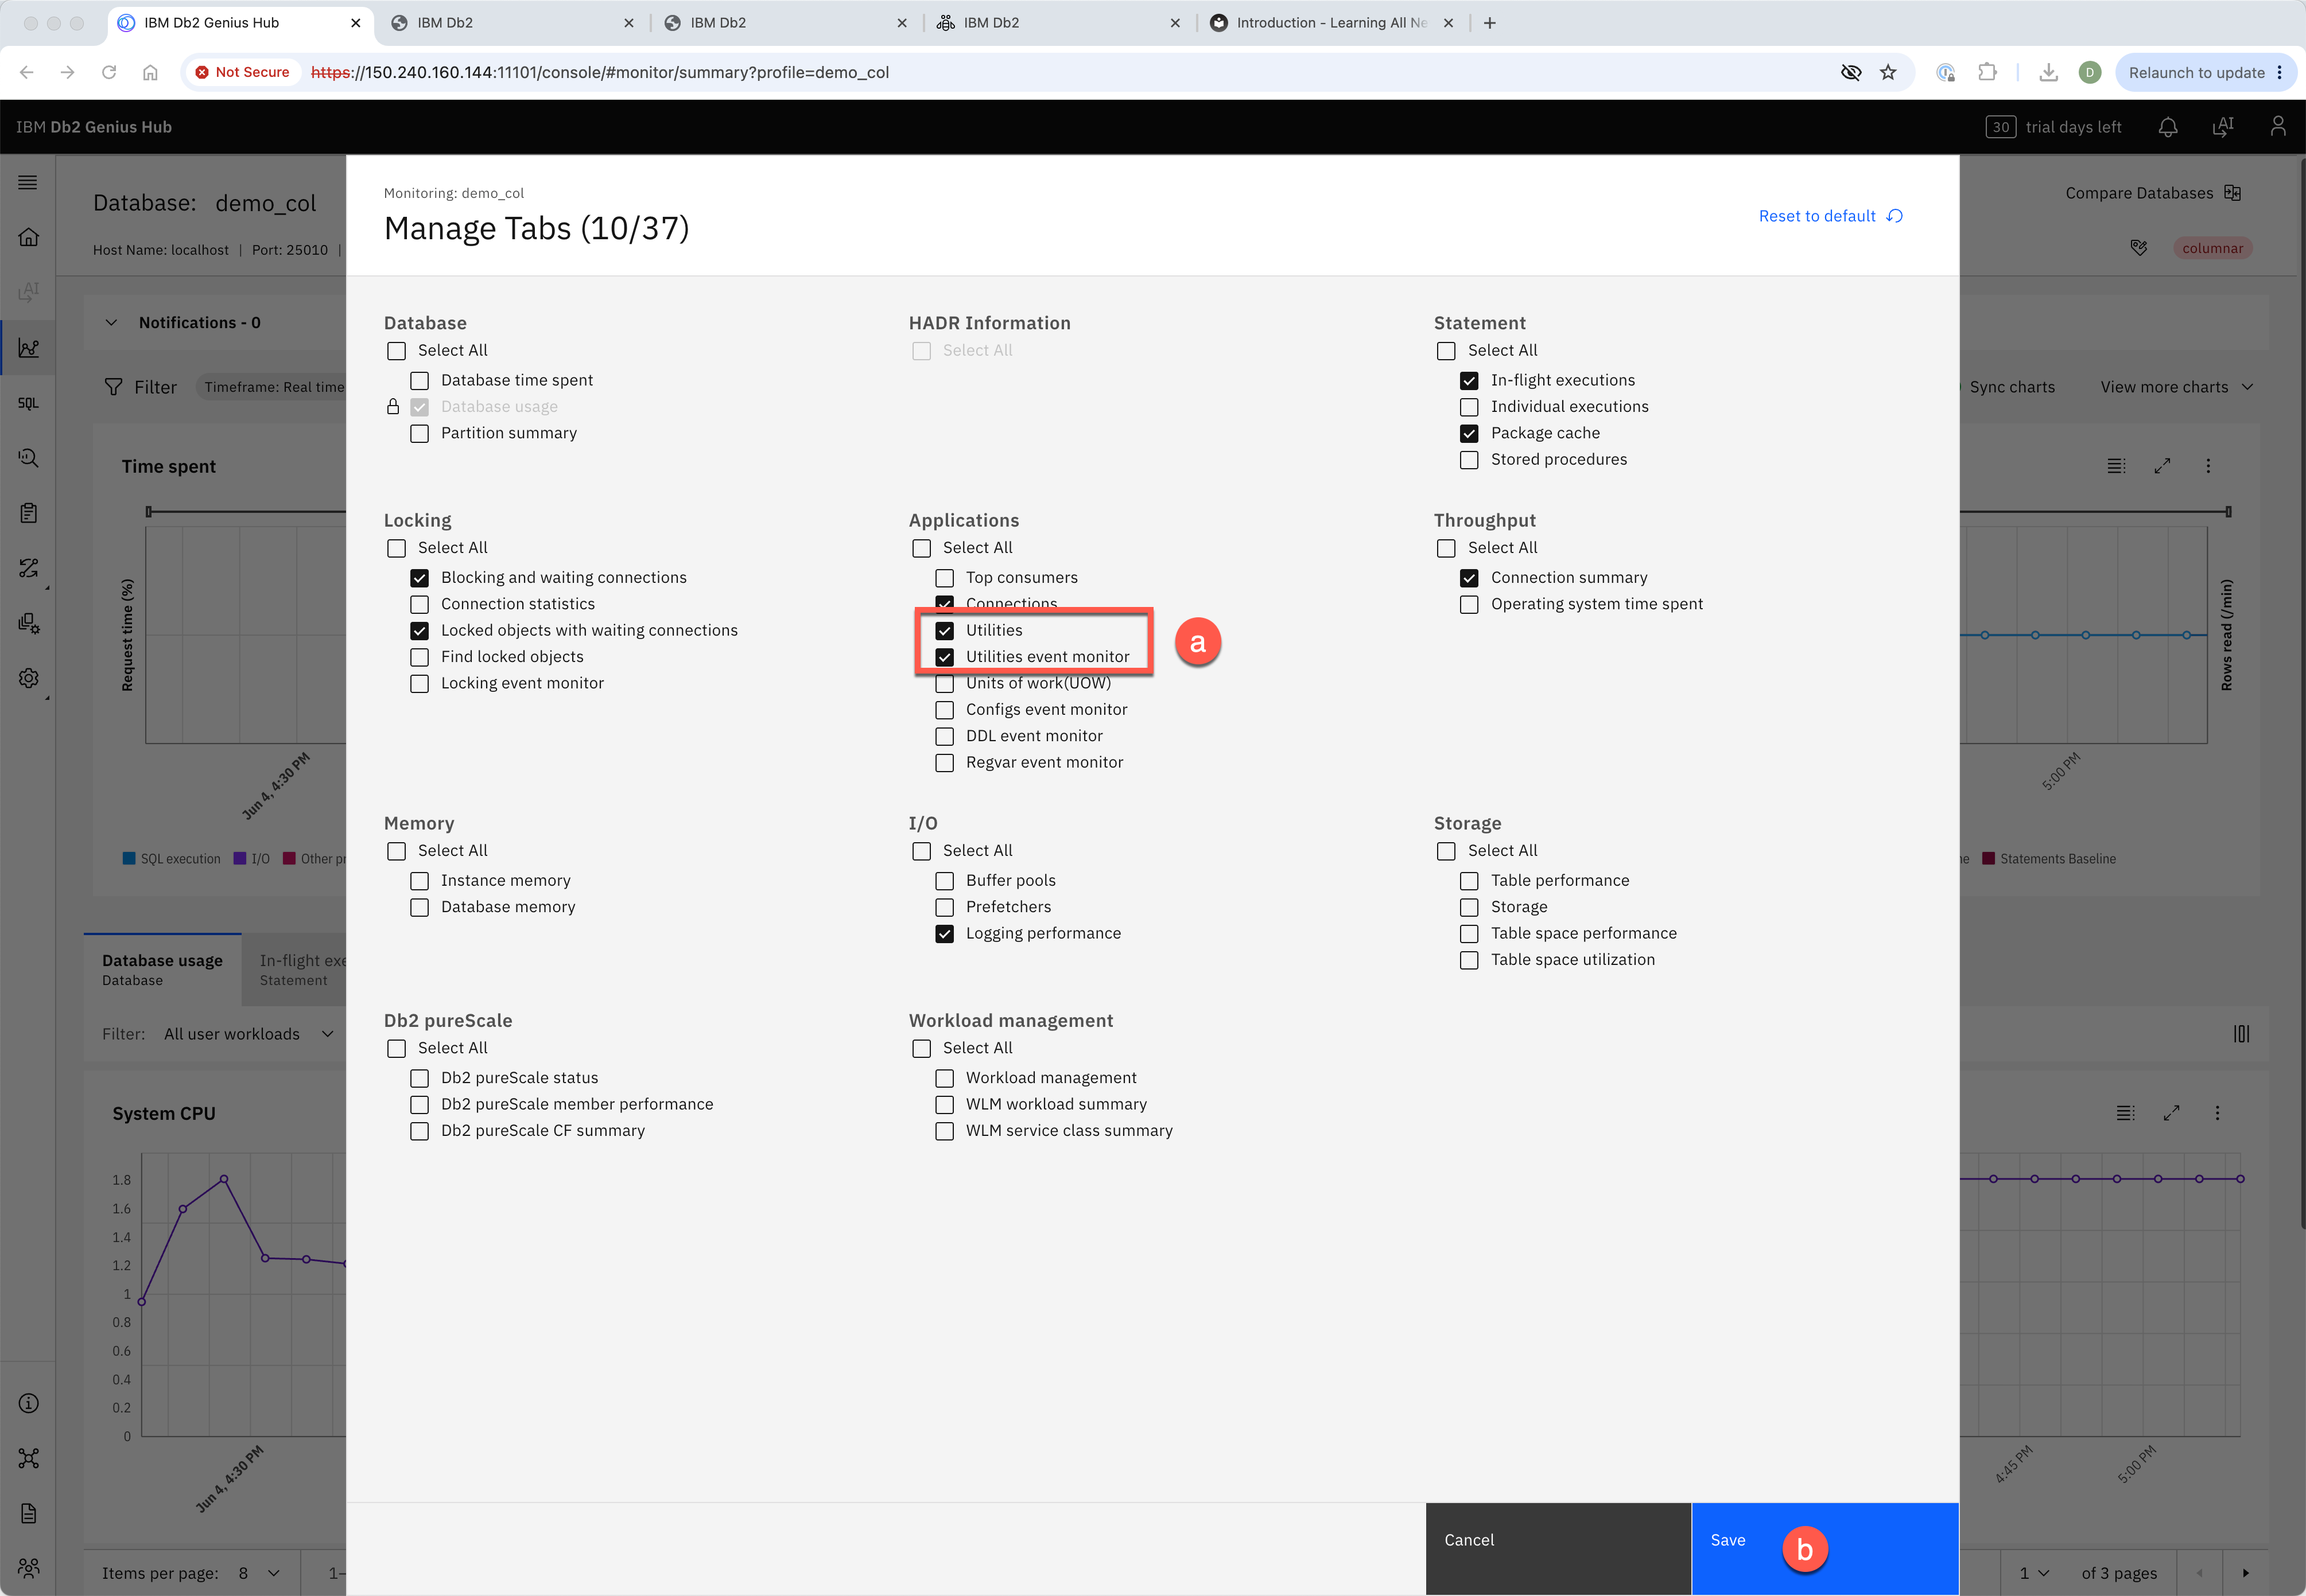
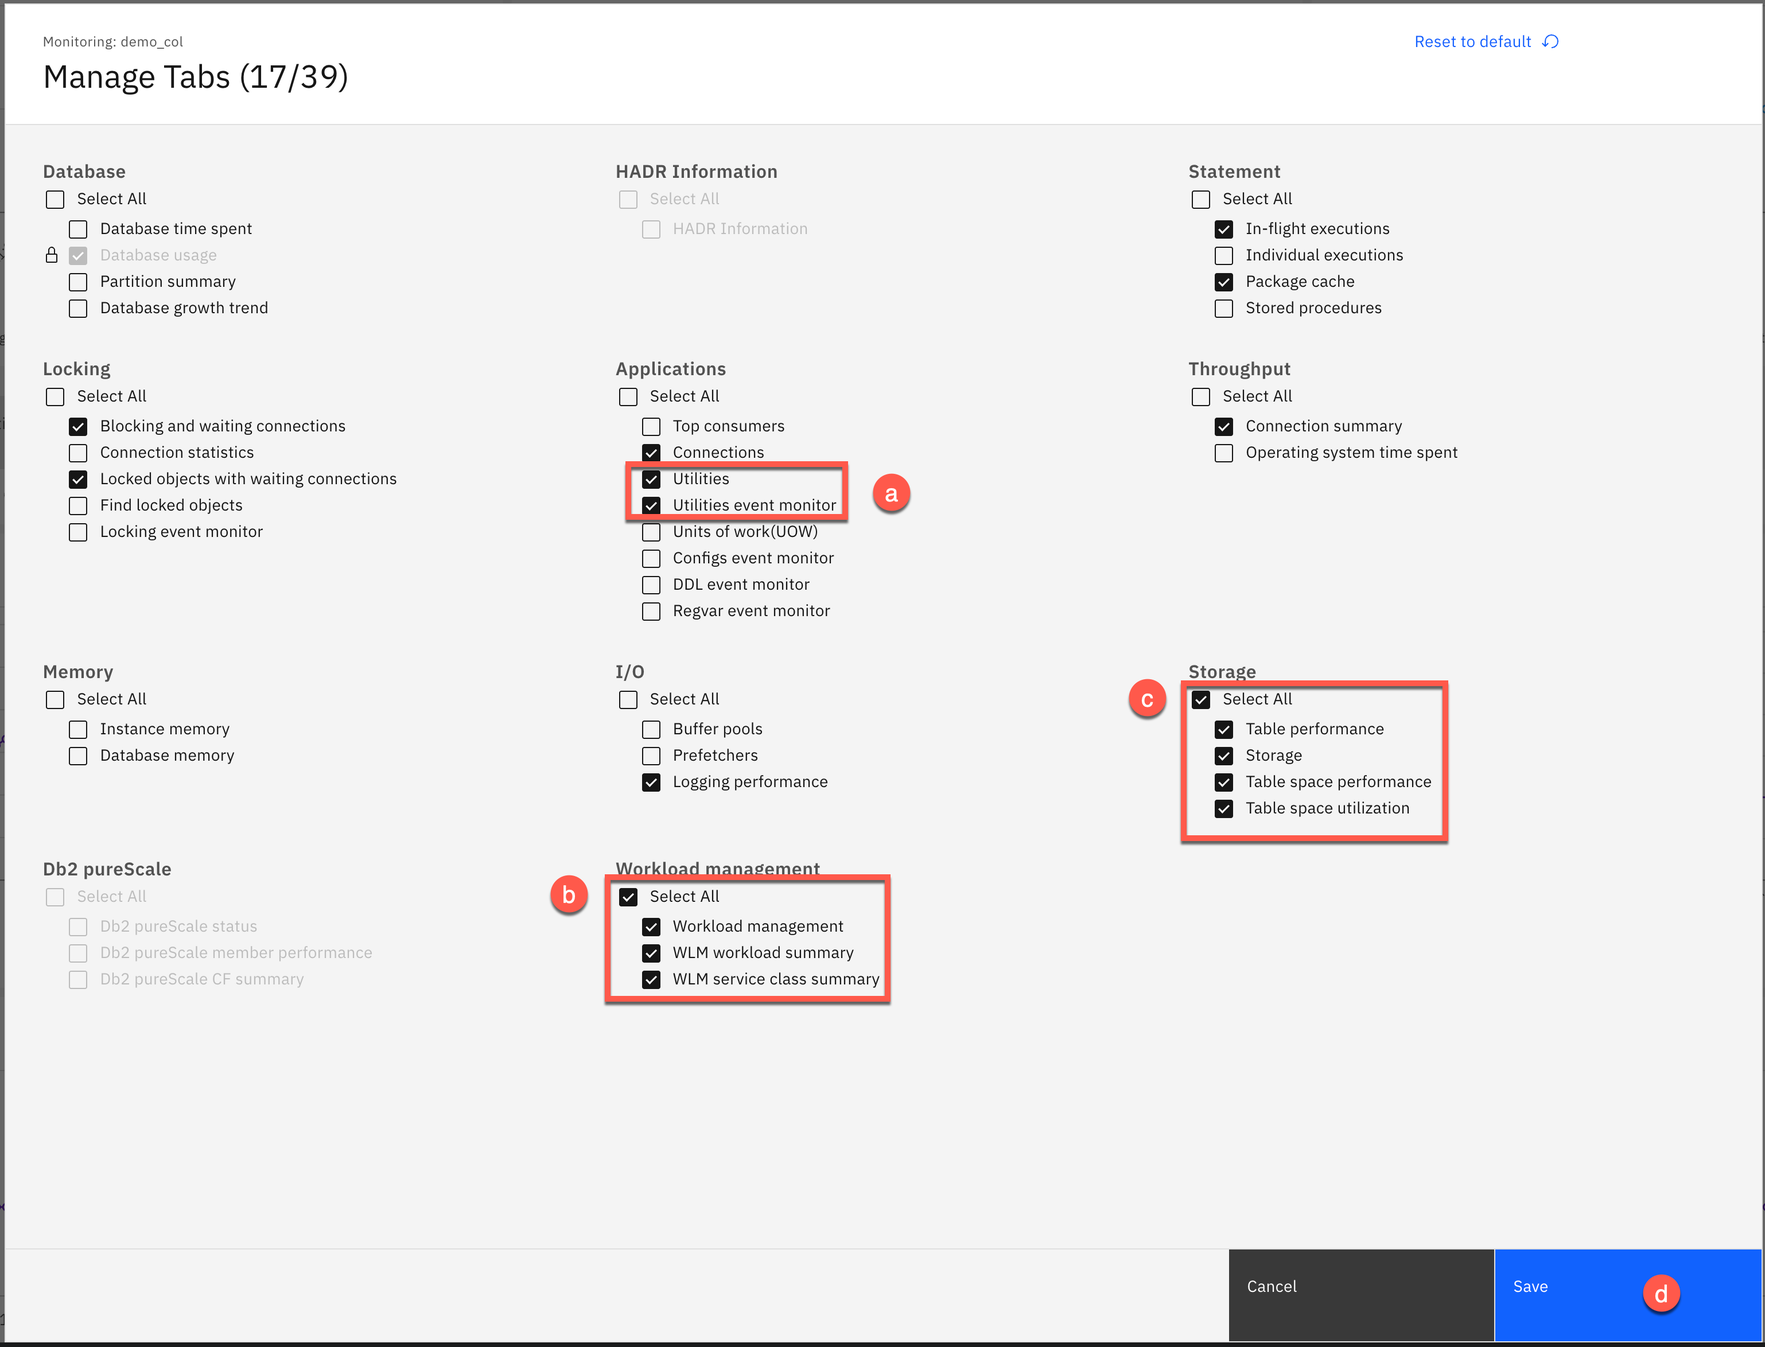
docs: Manage Tabs step adds Storage and Workload management tabs, new screenshot

diff --git a/02-05-ai-configuration.md b/02-05-ai-configuration.md
@@ -300,17 +300,20 @@ Some Db2 Genius Hub features require event monitors to capture performance data:
 
 <h2 style="padding-left:14px; border-left:6px solid #1D9E75;">Configure Tabs for Utilities Monitoring</h2>
 
-Before starting the data load, add the **Utilities** and **Utilities event monitor** tabs to the Monitor dashboard so you can observe load activity in real time.
+Before starting the data load, add the **Utilities**, **Storage** and **Workload management** tabs to the Monitor dashboard so you can observe load activity, tablespace usage and WLM activity in real time.
 
 1. From the Monitor dashboard, click the **edit tabs** icon on the right side of the tab bar.
 
    <img src="images/GH-edit-tabs.png" width="800"/>
 
-2. The **Manage Tabs** window opens. Under **Applications**, select **Utilities** and **Utilities event monitor (a)**.
+2. The **Manage Tabs** window opens. Select the following:
+   - Under **Applications**, select **Utilities** and **Utilities event monitor (a)**.
+   - Under **Workload management**, select **Select All (b)**.
+   - Under **Storage**, select **Select All (c)**.
 
    <img src="images/GH-edit-tabs-utilites.png" width="800"/>
 
-3. Click **Save (b)**.
+3. Click **Save (d)**.
 
 ---
 
